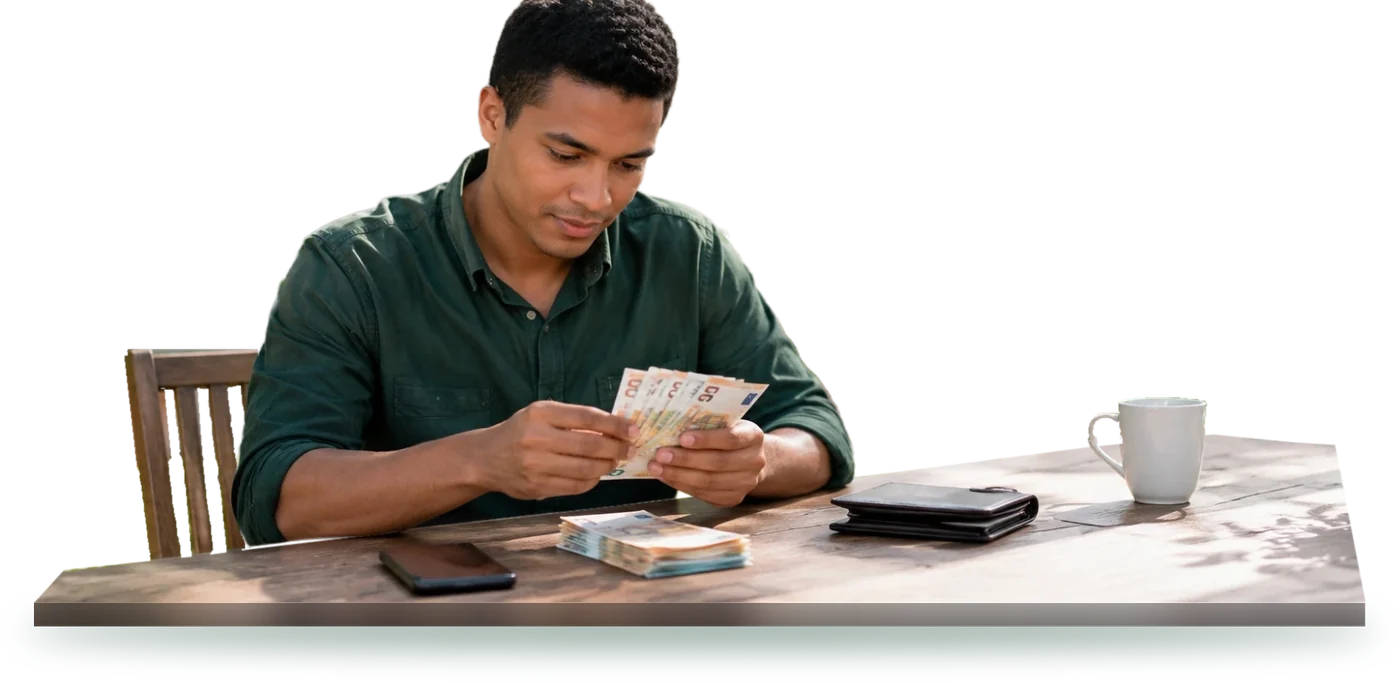
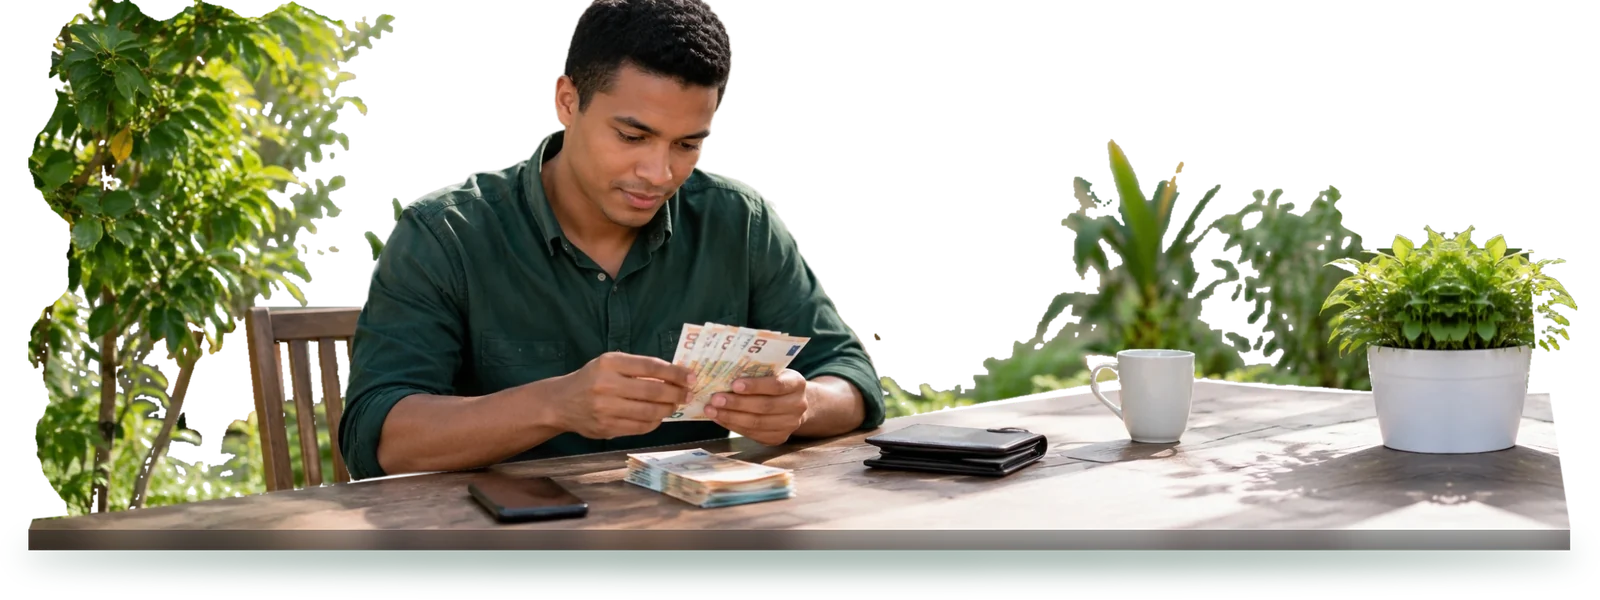
feat(sections): l'argent garde l'arbre et les plantes du jardin
L'arbre de gauche, le palmier, le massif et la plante en pot restent ;
seuls le mur et le sol partent. La plante en pot, coupée par la photo,
est complétée par symétrie et la table s'allonge sous elle. L'arbre,
coupé en haut et à gauche, y prend un contour de touffes.

diff --git a/src/features/dashboard-v2/DashboardV2Page.tsx b/src/features/dashboard-v2/DashboardV2Page.tsx
@@ -88,9 +88,9 @@ const SCENE_VENTES: Scene = {
 };
 const SCENE_ARGENT: Scene = {
   src: "/illustrations/argent.webp",
-  alt: "Un homme compte des billets en euros à sa table, près de son portefeuille et d'une tasse.",
-  largeur: 1400,
-  hauteur: 683,
+  alt: "Un homme compte des billets en euros à sa table, entre un arbre, des plantes et une plante en pot.",
+  largeur: 1600,
+  hauteur: 600,
 };
 const SCENE_STOCK: Scene = {
   src: "/illustrations/stock.webp",
